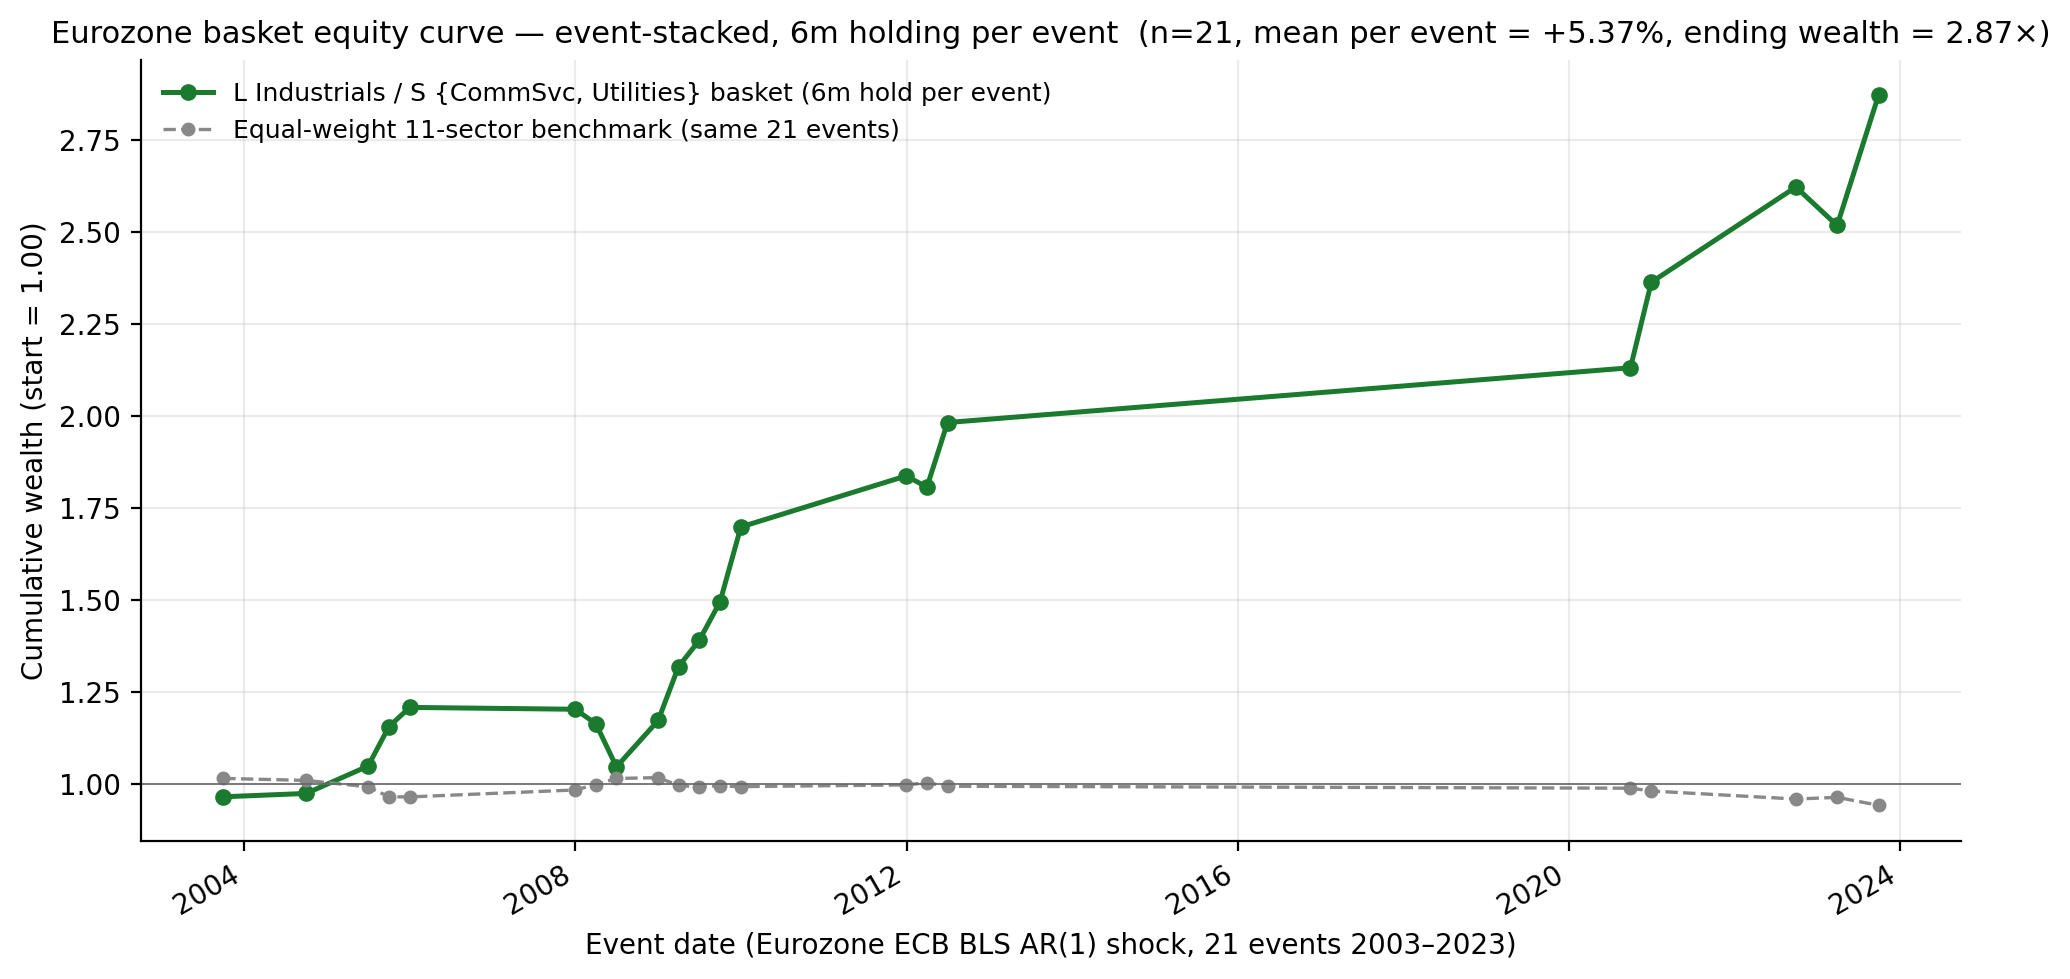
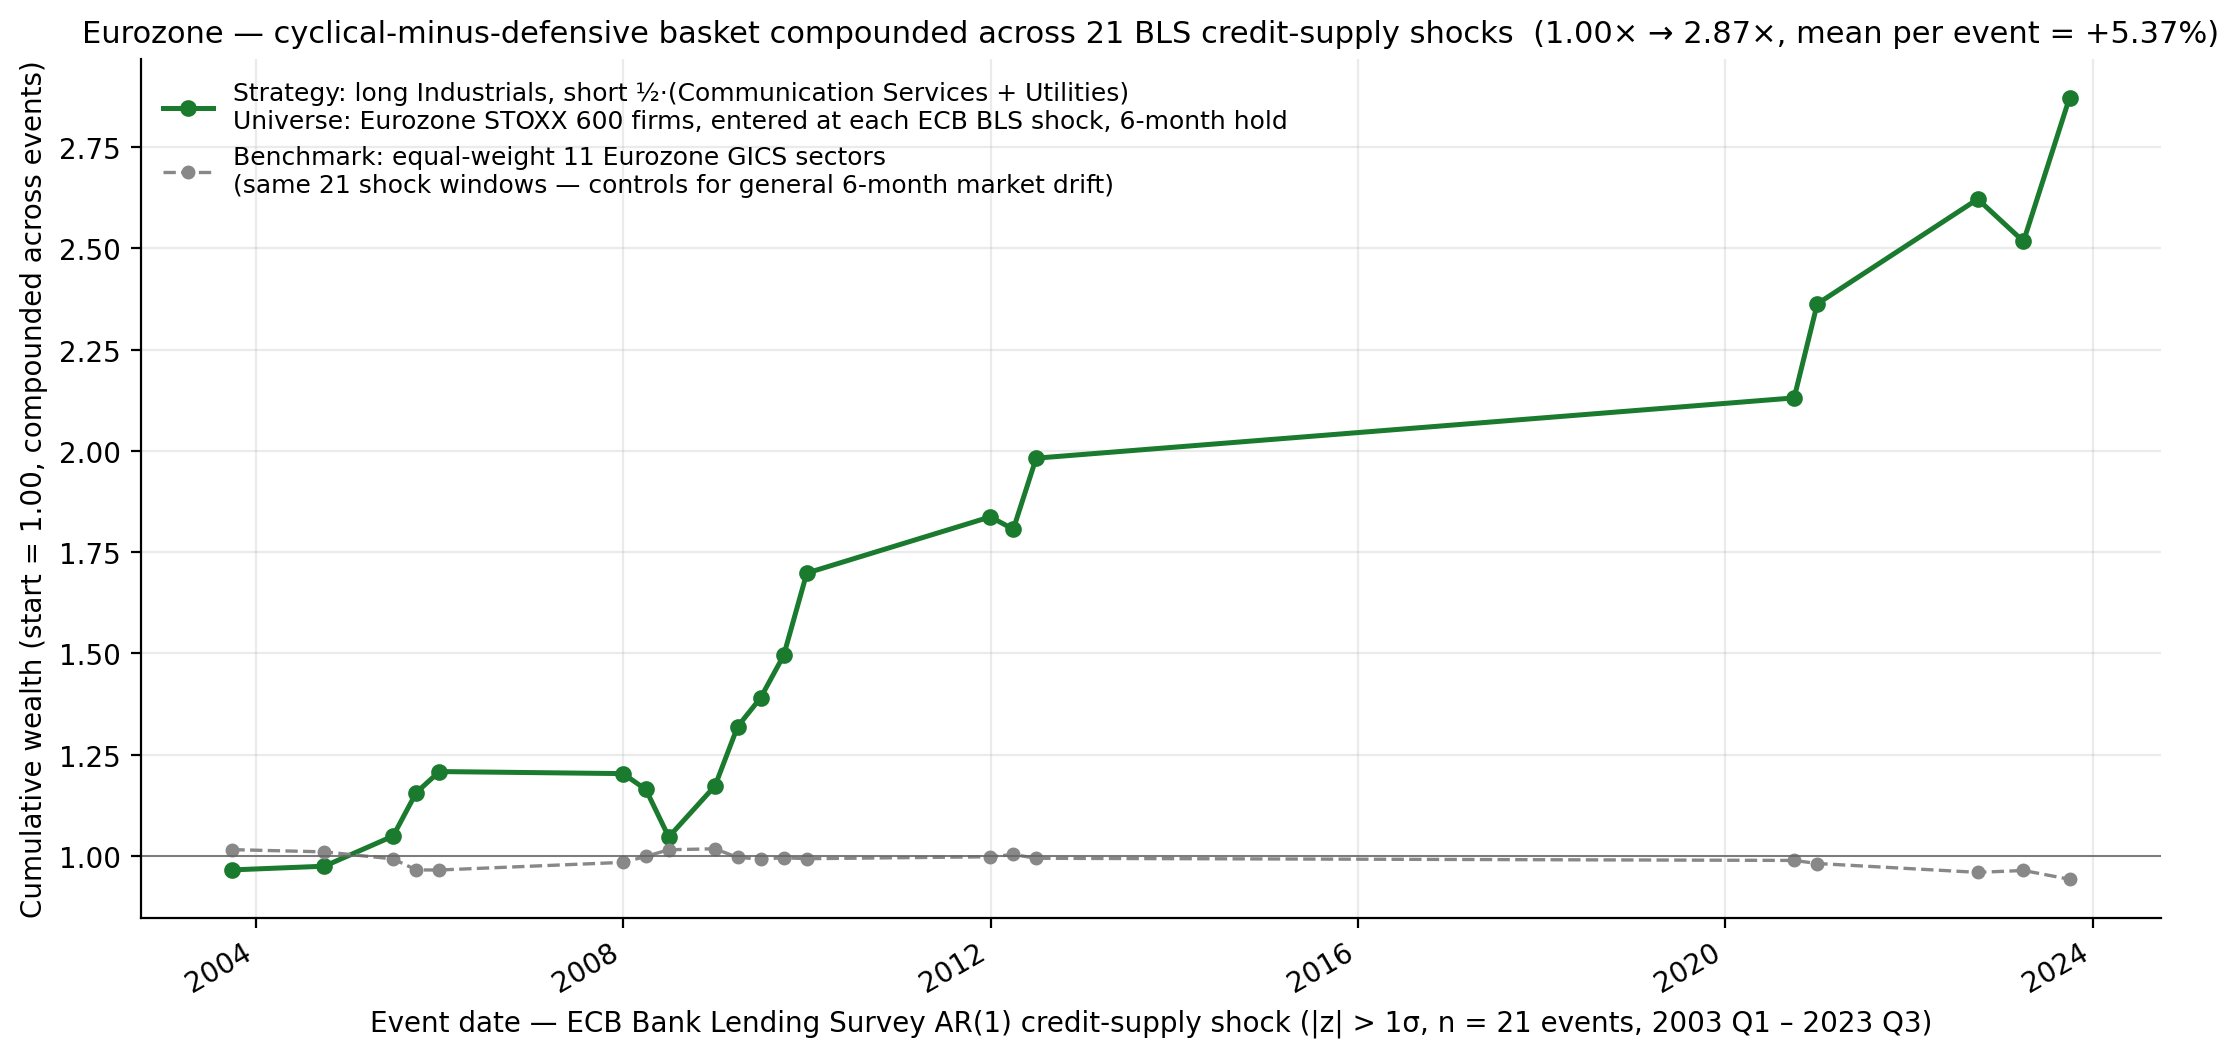
fig7 — verbose legend for LinkedIn readability
- Strategy / Benchmark labels spelled out (no L/S/{set} shorthand)
- Universe + entry mechanic + hold period in legend body
- Benchmark role (controls for general 6m market drift) made explicit
- Title reframes as "cyclical-minus-defensive basket"
- X-axis spells out ECB BLS AR(1) shock + sample window

diff --git a/analysis/generate_figures.py b/analysis/generate_figures.py
@@ -358,7 +358,7 @@ def fig7_basket_equity_curve() -> None:
     raw_sharpe_per_event = mean_excess / sd_excess if sd_excess > 0 else np.nan
     raw_sharpe_ann = raw_sharpe_per_event * np.sqrt(2.0)  # ~2 events / yr long-run
 
-    fig, ax = plt.subplots(figsize=(10, 5.0))
+    fig, ax = plt.subplots(figsize=(11, 5.4))
     ax.plot(
         df["event_date"],
         df["basket_cum"],
@@ -366,7 +366,10 @@ def fig7_basket_equity_curve() -> None:
         ms=5,
         lw=1.8,
         color="#1a7a2e",
-        label="L Industrials / S {CommSvc, Utilities} basket (6m hold per event)",
+        label=(
+            "Strategy: long Industrials, short ½·(Communication Services + Utilities)\n"
+            "Universe: Eurozone STOXX 600 firms, entered at each ECB BLS shock, 6-month hold"
+        ),
     )
     ax.plot(
         df["event_date"],
@@ -376,15 +379,21 @@ def fig7_basket_equity_curve() -> None:
         lw=1.2,
         color="#888",
         linestyle="--",
-        label="Equal-weight 11-sector benchmark (same 21 events)",
+        label=(
+            "Benchmark: equal-weight 11 Eurozone GICS sectors\n"
+            "(same 21 shock windows — controls for general 6-month market drift)"
+        ),
     )
     ax.axhline(1.0, color="0.4", lw=0.6)
-    ax.set_ylabel("Cumulative wealth (start = 1.00)")
-    ax.set_xlabel("Event date (Eurozone ECB BLS AR(1) shock, 21 events 2003–2023)")
+    ax.set_ylabel("Cumulative wealth (start = 1.00, compounded across events)")
+    ax.set_xlabel(
+        "Event date — ECB Bank Lending Survey AR(1) credit-supply shock "
+        "(|z| > 1σ, n = 21 events, 2003 Q1 – 2023 Q3)"
+    )
     final_wealth = df["basket_cum"].iloc[-1]
     ax.set_title(
-        f"Eurozone basket equity curve — event-stacked, 6m holding per event  "
-        f"(n={n}, mean per event = {mean_excess*100:+.2f}%, ending wealth = {final_wealth:.2f}×)"
+        f"Eurozone — cyclical-minus-defensive basket compounded across 21 BLS credit-supply shocks  "
+        f"({1.0:.2f}× → {final_wealth:.2f}×, mean per event = {mean_excess*100:+.2f}%)"
     )
     ax.legend(loc="upper left", frameon=False, fontsize=9)
     fig.autofmt_xdate()
